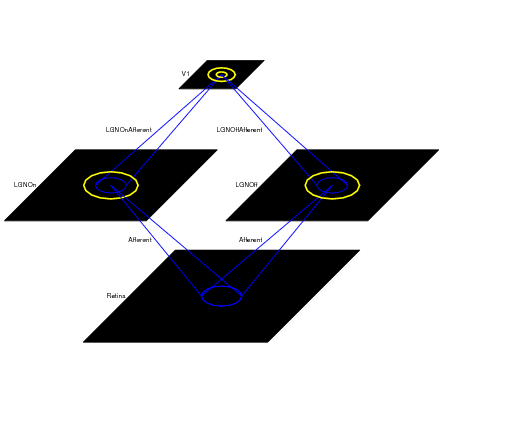
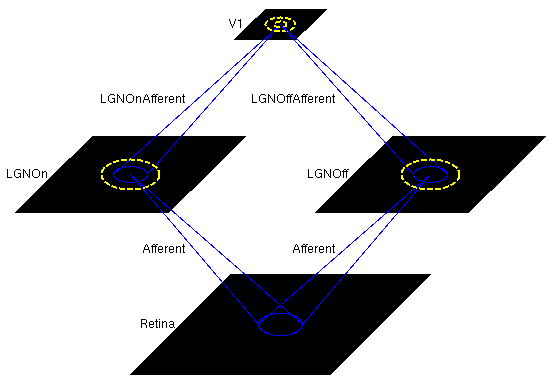
More updates: network size, network diagram.

diff --git a/doc/Tutorials/gca_lissom_text.php b/doc/Tutorials/gca_lissom_text.php
@@ -71,8 +71,8 @@ selecting <span class='t_item'>Load snapshot</span> from the
 <code>gca_lissom_10000.typ</code> in the examples/ directory. 
 <!--CEBALERT: update when sure what size we'll use-->
 This small orientation map simulation should load in a few seconds,
-with a 54x54 retina, a 36x36 LGN (composed of one 36x36 OFF channel
-sheet, and one 36x36 ON channel sheet), and a 48x48 V1 with about two
+with a 78x78 retina, a 60x60 LGN (composed of one 60x60 OFF channel
+sheet, and one 60x60 ON channel sheet), and a 48x48 V1 with about two
 million synaptic weights. The architecture can be viewed in
 the <span class='w_title'>Model Editor</span> window (which can be
 selected from the <span class='t_item'>Simulation</span> menu), but is
@@ -80,7 +80,7 @@ also shown below:
 <!--CEBALERT: image needs to be created properly!-->
 <p class='center'>
 <img src="images/gca_lissom_network_diagram.png" alt="LISSOM network"
-align="middle" WIDTH="521" HEIGHT="446">
+align="middle" WIDTH="554" HEIGHT="385">
 </p>
 
 <p></p>
@@ -121,6 +121,7 @@ align="middle" WIDTH="668" HEIGHT="360">
 <span class='t_item'>Normalize</span>
 and <span class='t_item'>Strength only</span> (both are usually off by
 default).
+<!--Considering whether to make initial lgn response visible in the model-->
 
 <P>As you move your mouse over the plots, information about the
 location of the mouse cursor is displayed in the status bar at the
@@ -379,11 +380,10 @@ controls the ratio between width and height; will be scaled by the
 </dt><dd> controls the amount of Gaussian falloff around the edges of patterns such as rings and lines
 </dd><dt><span class='t_item'>scale</span>
 </dt><dd> controls the brightness (try 1.0 for a sine grating).  Note
-that this relatively simple model is very sensitive to the scale, and
-scales higher than about 1.2 will result in a broad,
-orientation-unselective response, while low scales will give no
-response.  More complex models (and actual brains!)
-are less sensitive to the scale or contrast.
+how this model is insensitive to the scale; the response remains orientation
+selective even as the scale is varied substantially. (If you try the <a href="lissom_oo_or.html">lissom_oo_or
+tutorial</a>, you can see the effect of contrast gain control operating in this 
+model.)
 </dd><dt><span class='t_item'>offset</span></dt><dd> is added to every pixel
 </dd><dt><span class='t_item'>frequency</span>
 </dt><dd> controls frequency of a sine grating or Gabor 
@@ -398,16 +398,14 @@ parameters of the mask_shape pattern can be edited by right-clicking on it.
 
 <p> 
 To present photographs, select a <span class='t_item'>Pattern generator</span> of type
-<span class='t_item'>FileImage</span>. (You can type the path to an image file of your
-own (in e.g. PNG, JPG, TIFF, or PGM format) in the <span
-class='t_item'>filename</span> box.) For most photographs you will 
-need to change the <span class='t_item'>scale</span> to something like
-2.0 to see a reasonable
-response from this model V1, and you may want to enlarge the image
-size to look at details.  A much larger, more complicated, and slower map would
-be required to see interesting patterns in the response to most images,
-but even with this network you may be able to see some
-orientation-specific responses to large contours in the image:
+<span class='t_item'>FileImage</span>. (You can type the path to an
+image file of your own (in e.g. PNG, JPG, TIFF, or PGM format) in
+the <span class='t_item'>filename</span> box.) For most photographs,
+you will probably want to enlarge the image size to look at details.
+A much larger, more complicated, and slower map would be required to
+see interesting patterns in the response to most images, but even with
+this network you may be able to see some orientation-specific
+responses to large contours in the image:
 </p>
 
 <p class="center">
@@ -634,7 +632,23 @@ through the simulation as above.  The final result after 10000
 iterations (requiring several hours on a 3GHz machine) should be a much
 smoother map and neurons that are more orientation selective.  Even
 so, the overall organization and function should be similar.
-</li></ol>
+</li>
+
+<!--CEB: not sure if this is worth mentioning yet...
+because the history buttons don't quite work perfectly with
+or pref windows and because it's current work-->
+<!--
+<p></p>
+
+<li>
+Finally, you might also be interested in observing in more detail how
+the orientation map develops over time. c.f. lissom_oo_or, which
+starts with big patches that shrink (exc rad shrink vs
+homeost);lissom_oo_or map dev less stable
+</li>
+-->
+
+</ol>
 
 
 <h2>Exploring further</h2>
